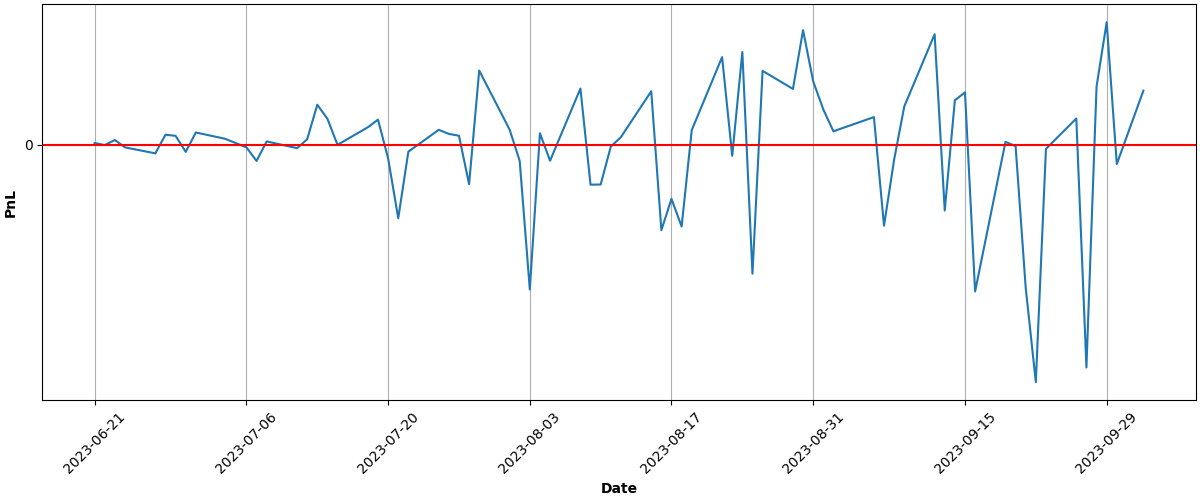
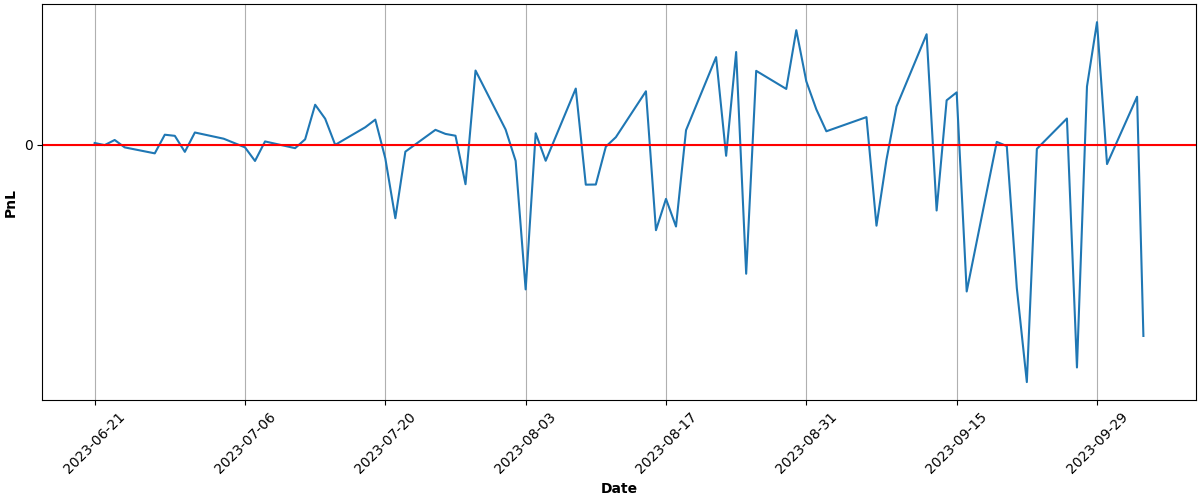
Automated Buy At Tue Oct  3 15:04:28 UTC 2023 Run ID 6394833222

diff --git a/README.md b/README.md
@@ -68,9 +68,9 @@ Results
 
 | Asset | Average Price | Current Price | ROI | 📈 |
 | --- | --- | --- | --- | --- |
-| FNGU | $177.549271379 | $155.67 | -12.32% | &#128308;&#128546; |
-| SVIX | $28.481753333 | $27.98 | -1.76% | &#128308;&#128546; |
-| **Total** |  |  | **-6.70%** | &#128308;&#128557; |
+| FNGU | $177.085038558 | $148.2199 | -16.30% | &#128308;&#128546; |
+| SVIX | $28.396858064 | $25.85 | -8.97% | &#128308;&#128546; |
+| **Total** |  |  | **-12.37%** | &#128308;&#128557; |
 
 ### PnL over time (calculations may not be accurate):
 
@@ -81,6 +81,6 @@ Results
 ---
 
 
-Updated at 2023-10-02 15:05:08
+Updated at 2023-10-03 15:04:47
 
 
